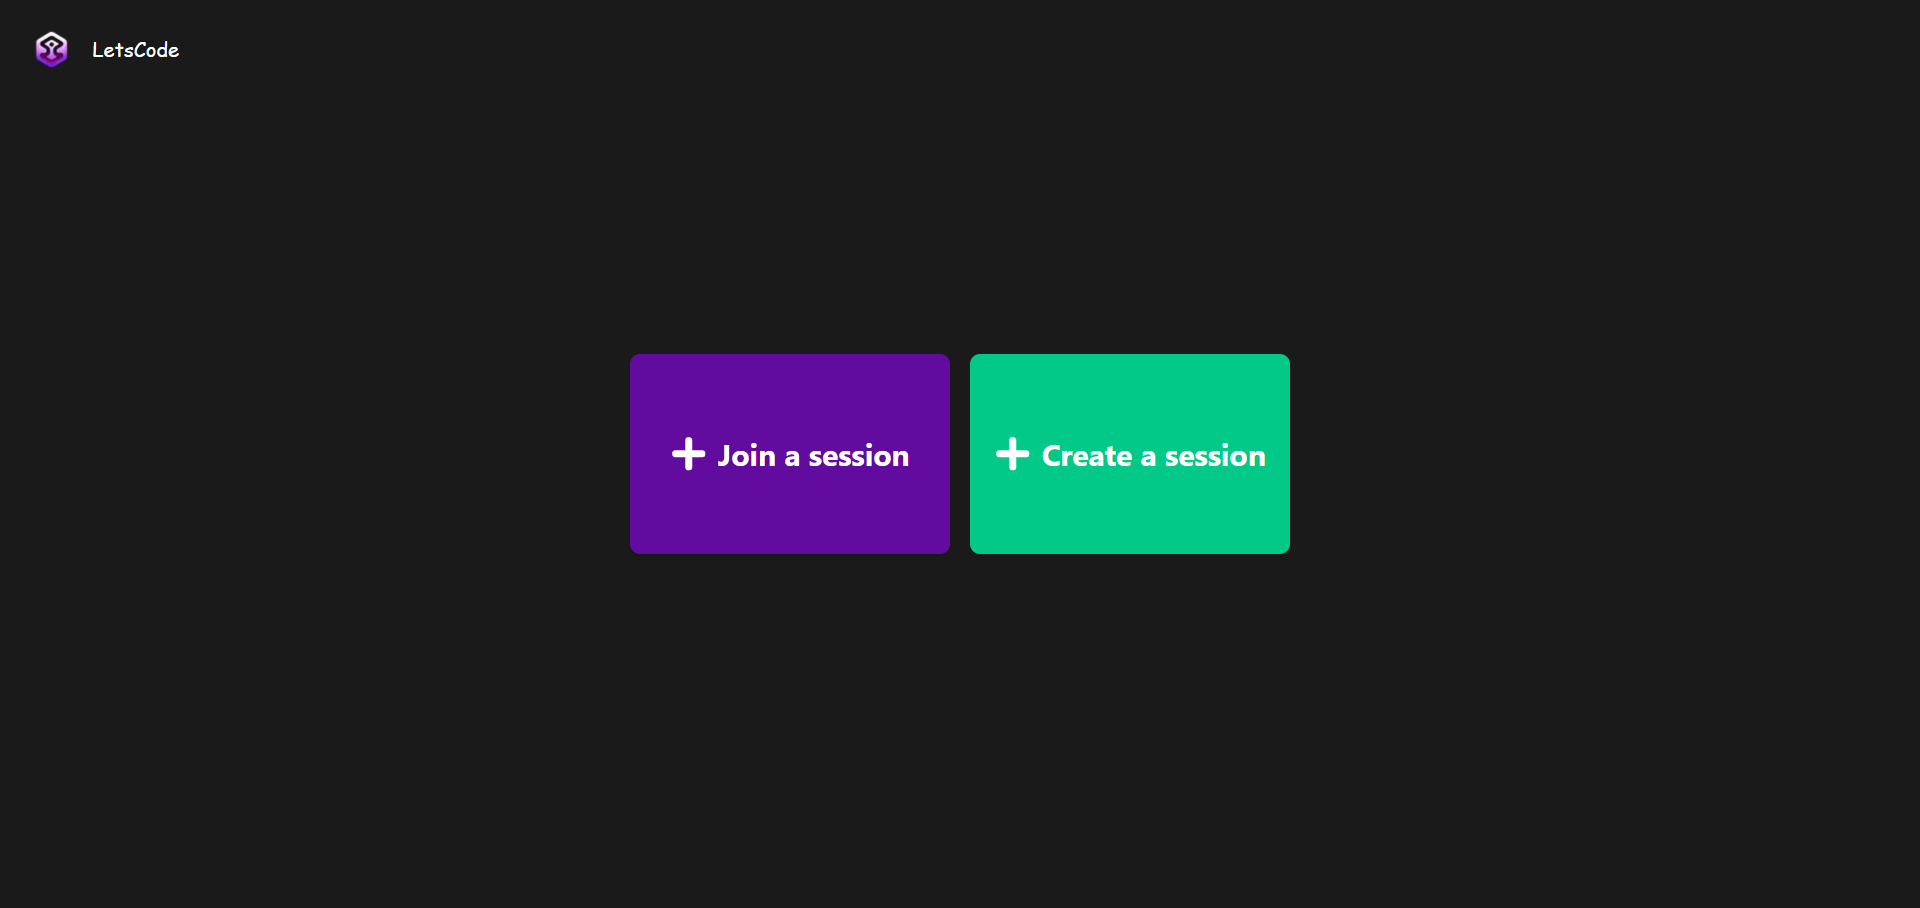
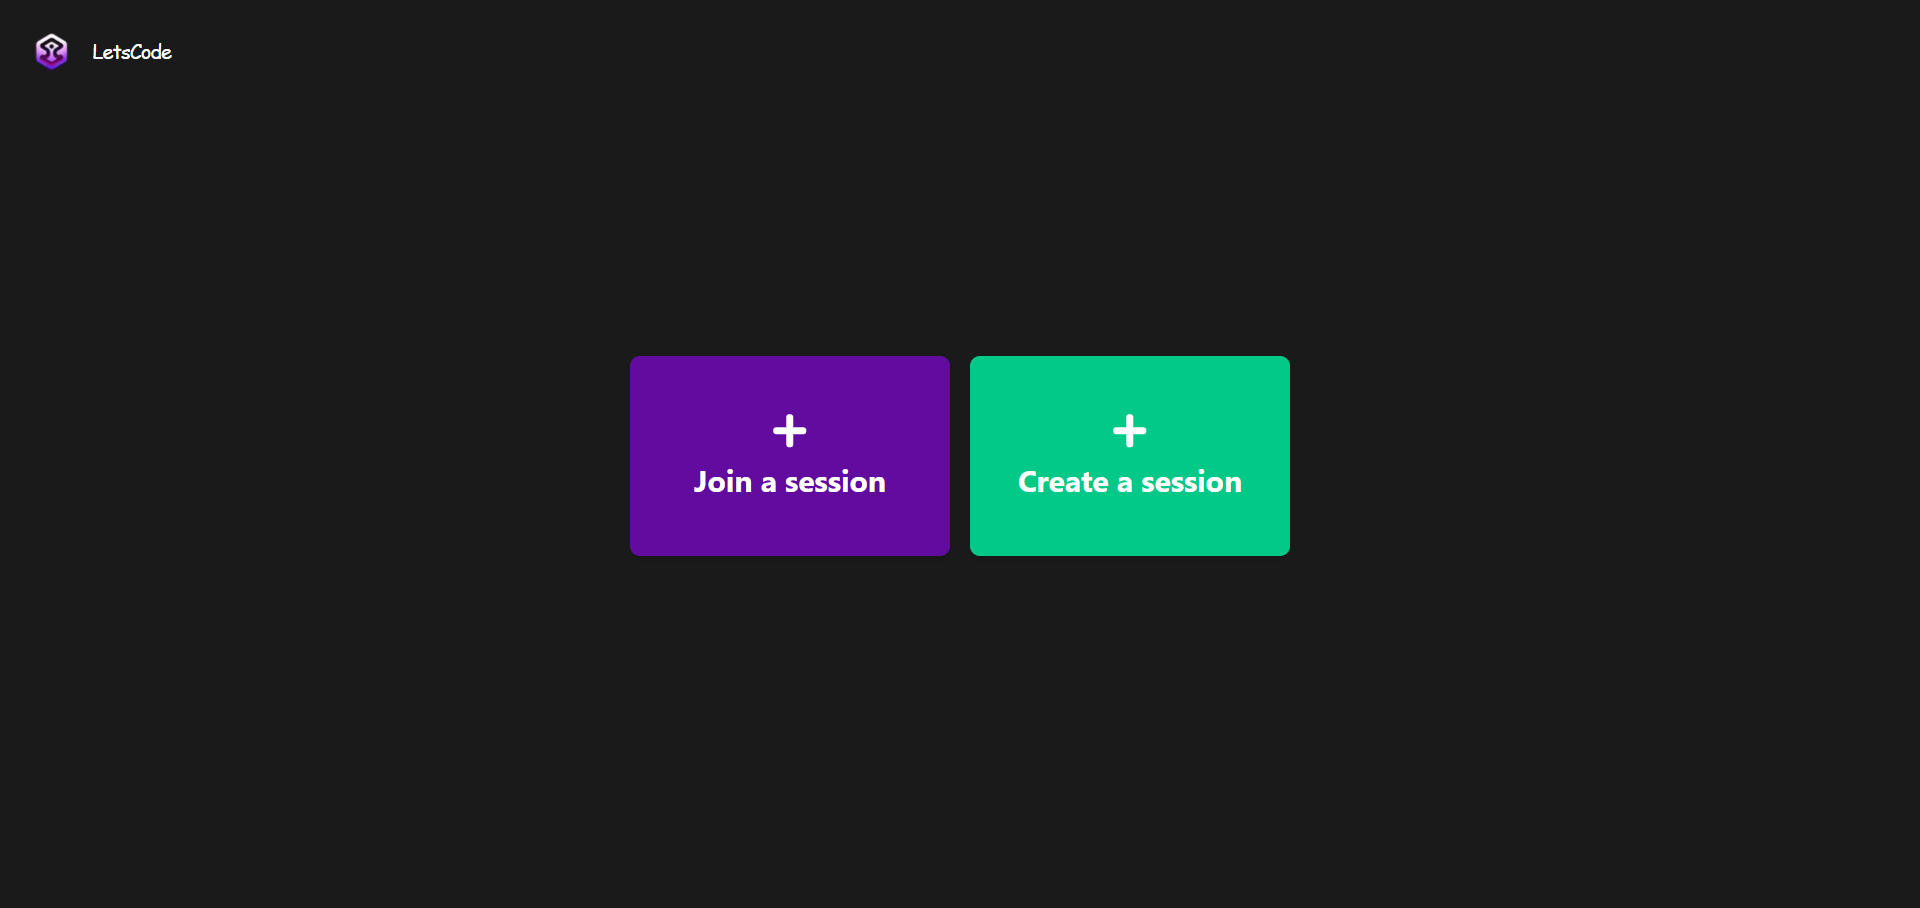
I need to build the DashBoard

Changed region(s): [[0.5, 0.4626, 0.6562, 0.5551], [0.3438, 0.4626, 0.4688, 0.5551], [0.0, 0.0308, 0.0938, 0.0925]]

diff --git a/src/components/Buttons/Dropdown.tsx b/src/components/Buttons/Dropdown.tsx
@@ -43,11 +43,11 @@ const DropDown: React.FC<DropDownProps> = ({ onLanguageSelect }) => {
               </div>
             </Listbox.Button>
             <Transition as={Fragment} leave="transition ease-in duration-100" leaveFrom="opacity-100" leaveTo="opacity-0">
-              <Listbox.Options className="absolute z-1000 mt-1 max-h-60 w-full overflow-auto rounded-md bg-white py-1 text-base shadow-lg ring-1 ring-black/5 focus:outline-none sm:text-sm">
+              <Listbox.Options className="absolute z-1000 mt-1 max-h-60 w-full overflow-auto rounded-md bg-[#0f0f0f] py-1 text-base shadow-lg ring-1 ring-black/5 focus:outline-none sm:text-sm">
                 {languages.map((language) => (
                   <Listbox.Option
                     key={language.name}
-                    className={({ active }) => `relative cursor-default select-none py-2 pl-10 pr-4 ${active ? 'bg-amber-100 text-amber-900' : 'text-gray-900'}`}
+                    className={({ active }) => `relative cursor-default select-none py-2 pl-10 pr-4 ${active ? 'bg-[#282828] text-dark-gray-6' : 'text-white'}`}
                     value={language}
                   >
                     {({ selected }) => (
@@ -55,7 +55,7 @@ const DropDown: React.FC<DropDownProps> = ({ onLanguageSelect }) => {
                         {/* <language.icon className="text-xl mr-2" /> */}
                         <span className="block truncate">{language.name}</span>
                         {selected && (
-                          <span className="absolute inset-y-0 left-0 flex items-center pl-3 text-amber-600">
+                          <span className="absolute inset-y-0 left-0 flex items-center pl-3 text-white">
                             <CheckIcon className="h-5 w-5" aria-hidden="true" />
                           </span>
                         )}

diff --git a/src/pages/session/index.tsx b/src/pages/session/index.tsx
@@ -27,18 +27,19 @@ const SessionPage: React.FC<SessionPageProps> = () => {
         <Navbar />
       </div>
       <div className="flex flex-col md:flex-row justify-center items-center gap-4">
+       <button
+        className="w-64 h-40 bg-[#610C9F] rounded-lg shadow-md flex flex-col items-center justify-center text-2xl font-bold cursor-pointer relative"
+        onClick={() => setAuthModalState((prev) => ({ ...prev, isOpen: true, type: "join" }))}
+      >
+        <FaPlus className="text-3xl mb-2" />
+        Join a session
+      </button>
+
         <button
-          className="w-64 h-40 bg-[#610C9F] rounded-lg shadow-md flex items-center justify-center text-2xl font-bold cursor-pointer relative"
-          onClick={() => setAuthModalState((prev) => ({ ...prev, isOpen: true, type: "join" }))}
-        >
-          <FaPlus className="mr-2 text-3xl" />
-          Join a session
-        </button>
-        <button
-          className="w-64 h-40 bg-[#03C988] rounded-lg shadow-md flex items-center justify-center text-2xl font-bold cursor-pointer relative"
+          className="w-64 h-40 bg-[#03C988] rounded-lg shadow-md flex flex-col items-center justify-center text-2xl font-bold cursor-pointer relative"
           onClick={() => setAuthModalState((prev) => ({ ...prev, isOpen: true, type: "create" }))}
         >
-          <FaPlus className="mr-2 text-3xl" />
+          <FaPlus className="mb-2 text-3xl" />
           Create a session
         </button>
       </div>

diff --git a/src/pages/compiler/[sid].tsx b/src/pages/compiler/[sid].tsx
@@ -30,7 +30,7 @@ const Compiler: React.FC = () => {
             const timeoutId = setTimeout(async () => {
                 if (user && typeof sessionData.sessionId === 'string' && typeof sessionData.userId === 'string') {
                     const userRef = doc(firestore, `sessions/${sessionData.sessionId}/users`, sessionData.userId);
-                    // await updateDoc(userRef, { connected: false });
+                    await updateDoc(userRef, { connected: false });
                 }
             }, 1000);
             setWarningTimeoutId(timeoutId);

diff --git a/src/components/Workspace/Playground/Playground.tsx b/src/components/Workspace/Playground/Playground.tsx
@@ -23,7 +23,7 @@ const Playground = () => {
     const [output, setOutput] = useState('You have to run your code to see results');
     const [fontSize, setFontSize] = useLocalStorage("lcc-fontSize", "16px");
     const [settings, setSettings] = useState({ fontSize, settingsModalIsOpen: false, dropdownIsOpen: false });
-    const [selectedLanguage, setSelectedLanguage] = useState('JavaScript');
+    const [selectedLanguage, setSelectedLanguage] = useState('C++');
     const [currentCode, setCurrentCode] = useState("");
 
     const languages = useMemo(() => ({

diff --git a/src/components/Topbar/Topbar.tsx b/src/components/Topbar/Topbar.tsx
@@ -93,7 +93,7 @@ const Topbar: React.FC<TopbarProps> = ({ compilerPage, sessionName, sessionId, U
 						)}
 						<button
 							onClick={handleQuit}
-							className='py-1.5 px-3 cursor-pointer rounded hover:bg-dark-fill-2 hover:text-[e99517]'
+							className='bg-[#2c2110] py-1.5 px-3 cursor-pointer text-[#FFBB64] rounded hover:bg-dark-fill-2 hover:text-[e99517]'
 						>
 							Quit
 						</button>

diff --git a/src/components/Buttons/Logout.tsx b/src/components/Buttons/Logout.tsx
@@ -10,7 +10,7 @@ const Logout: React.FC = () => {
 		signOut();
 	};
 	return (
-		<button className='bg-dark-fill-3 py-1.5 px-3 cursor-pointer rounded text-dark-gray hover:' onClick={handleLogout}>
+		<button className='bg-dark-fill-3 py-1.5 px-3 cursor-pointer rounded text-[#FF004D] hover:' onClick={handleLogout}>
 			<FiLogOut />
 		</button>
 	);

diff --git a/README.md b/README.md
@@ -7,7 +7,7 @@
 
 ![demo](public/page.png)
 
-#### A simple online compiler that allows you to write and compile/execute code. The initial intent of this project was to create an online compiler that allows teachers to create a session (they can upload a pdf file) for exams instead of writing on a paper, students will have to join a session with the session id generated by the teacher when creating the session and thier full name, after a successful connection they will be directed to the main page, just like in the image below :point_down:, they would be automatically disconnected if thier mouse leaves the page or if they change the window, (there is toast when you try to leave the page to warn you)
+#### A simple online compiler that allows you to write and compile/execute code. The initial intent of this project was to create an online compiler that allows teachers to create a session (they can upload a pdf file) for exams instead of writing code on a paper, students will have to join a session with the session id generated by the teacher when creating the session and thier full name, after a successful connection they will be directed to the main page, just like in the image below :point_down:, they would be automatically disconnected if thier mouse leaves the page or if they change the window, (there is toast when you try to leave the page to warn you)
 
 ![demo](public/screen.png)
 
@@ -30,8 +30,10 @@
    ```sh
    npm install
    ```
+4. Create your `.env.local` file
 
-4. Start the development server
+   > Since i am using i am using Firebase for the authentication, you will need to create an app on Firebase and copy your data Firebase Api key etc  
+5. Start the development server
 
    ```sh
    npm run dev
